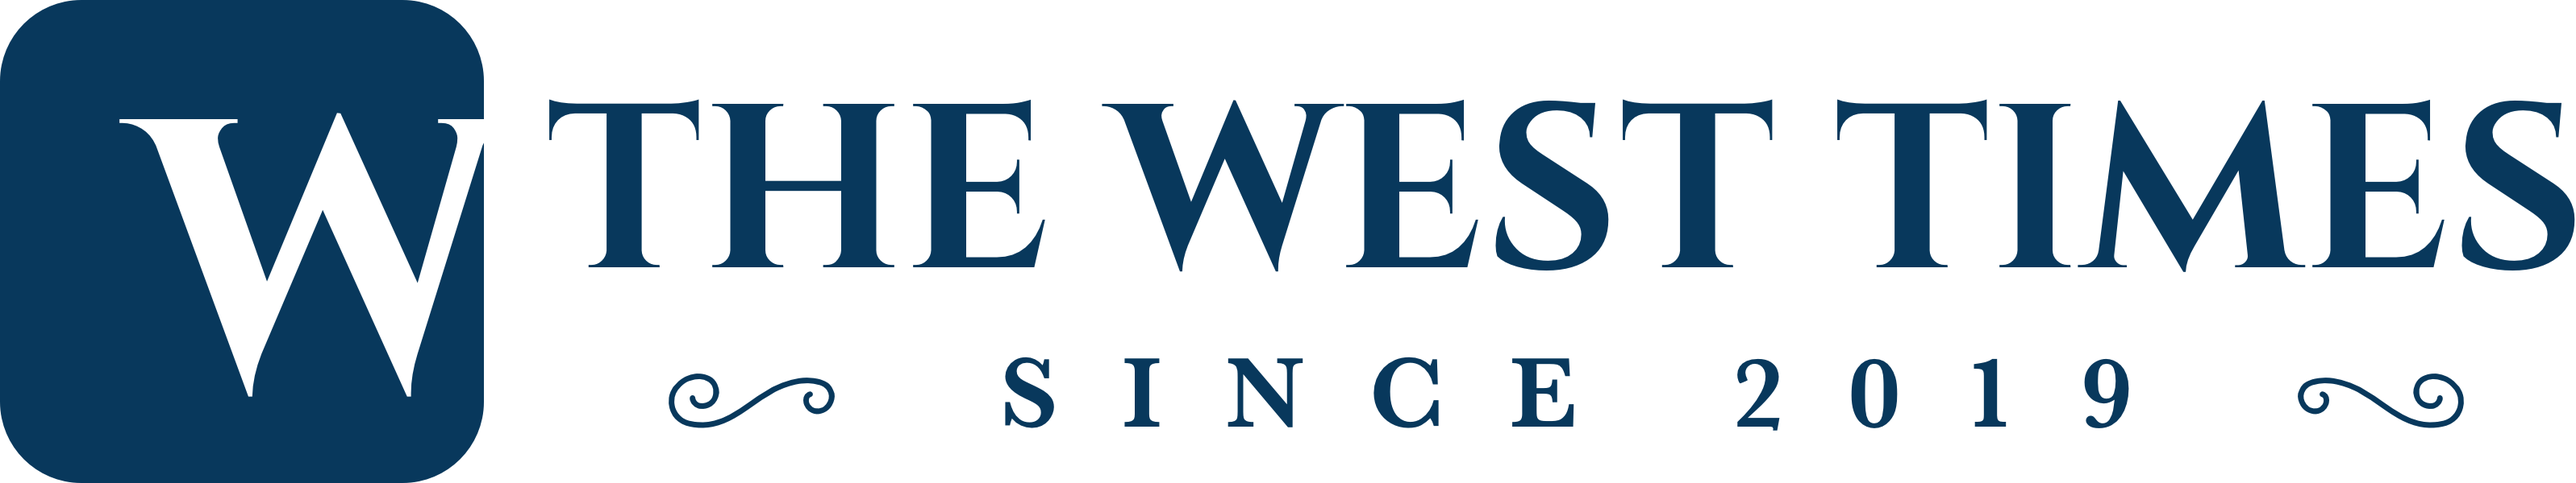
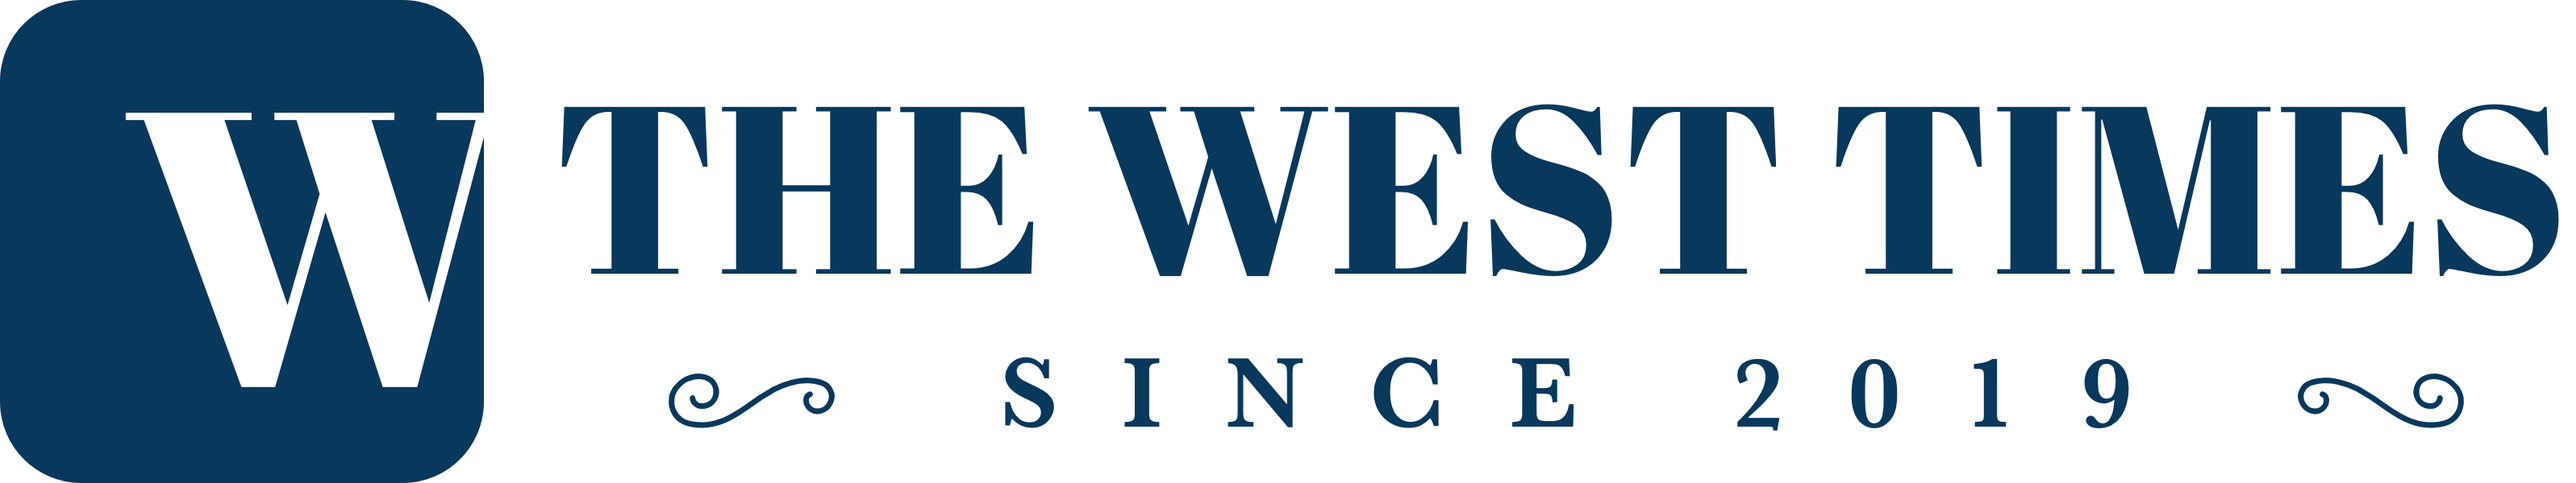
Regular update: 2020-03-08 23:10:47 UTC

Changed region(s): [[0.031, 0.21, 1.0, 0.81]]

diff --git a/index.html b/index.html
@@ -52,7 +52,7 @@
                 <h1>
                     <a href="/">
                         <span style="opacity: 0; font-size: 0px; line-height: 0px; position: fixed; top: 0px; left: 0px;">The West Times</span>
-                        <img src="/img/TWT-logotype-v2.png" alt="" style="width: 70%; max-width: 360px; margin-top: 15px;">
+                        <img src="/img/TWT-logotype-v4-dark.png" alt="" style="width: 70%; max-width: 360px; margin-top: 15px;">
                     </a>
                 </h1>
             </div>
@@ -143,7 +143,7 @@
         <footer class="cp--footer">
             <div class="cp--section-inner" style="padding: 0px 32px;">
                 <div class="" style="padding: 0 0 30px;">
-                    <img src="/img/TWT-logotype-v2-white.png" alt="" style="width: 50%; max-width: 280px;">
+                    <img src="/img/TWT-logotype-v4-white.png" alt="" style="width: 50%; max-width: 280px;">
                 </div>
                 <div class="">
                     <!-- Baseline significance -->
